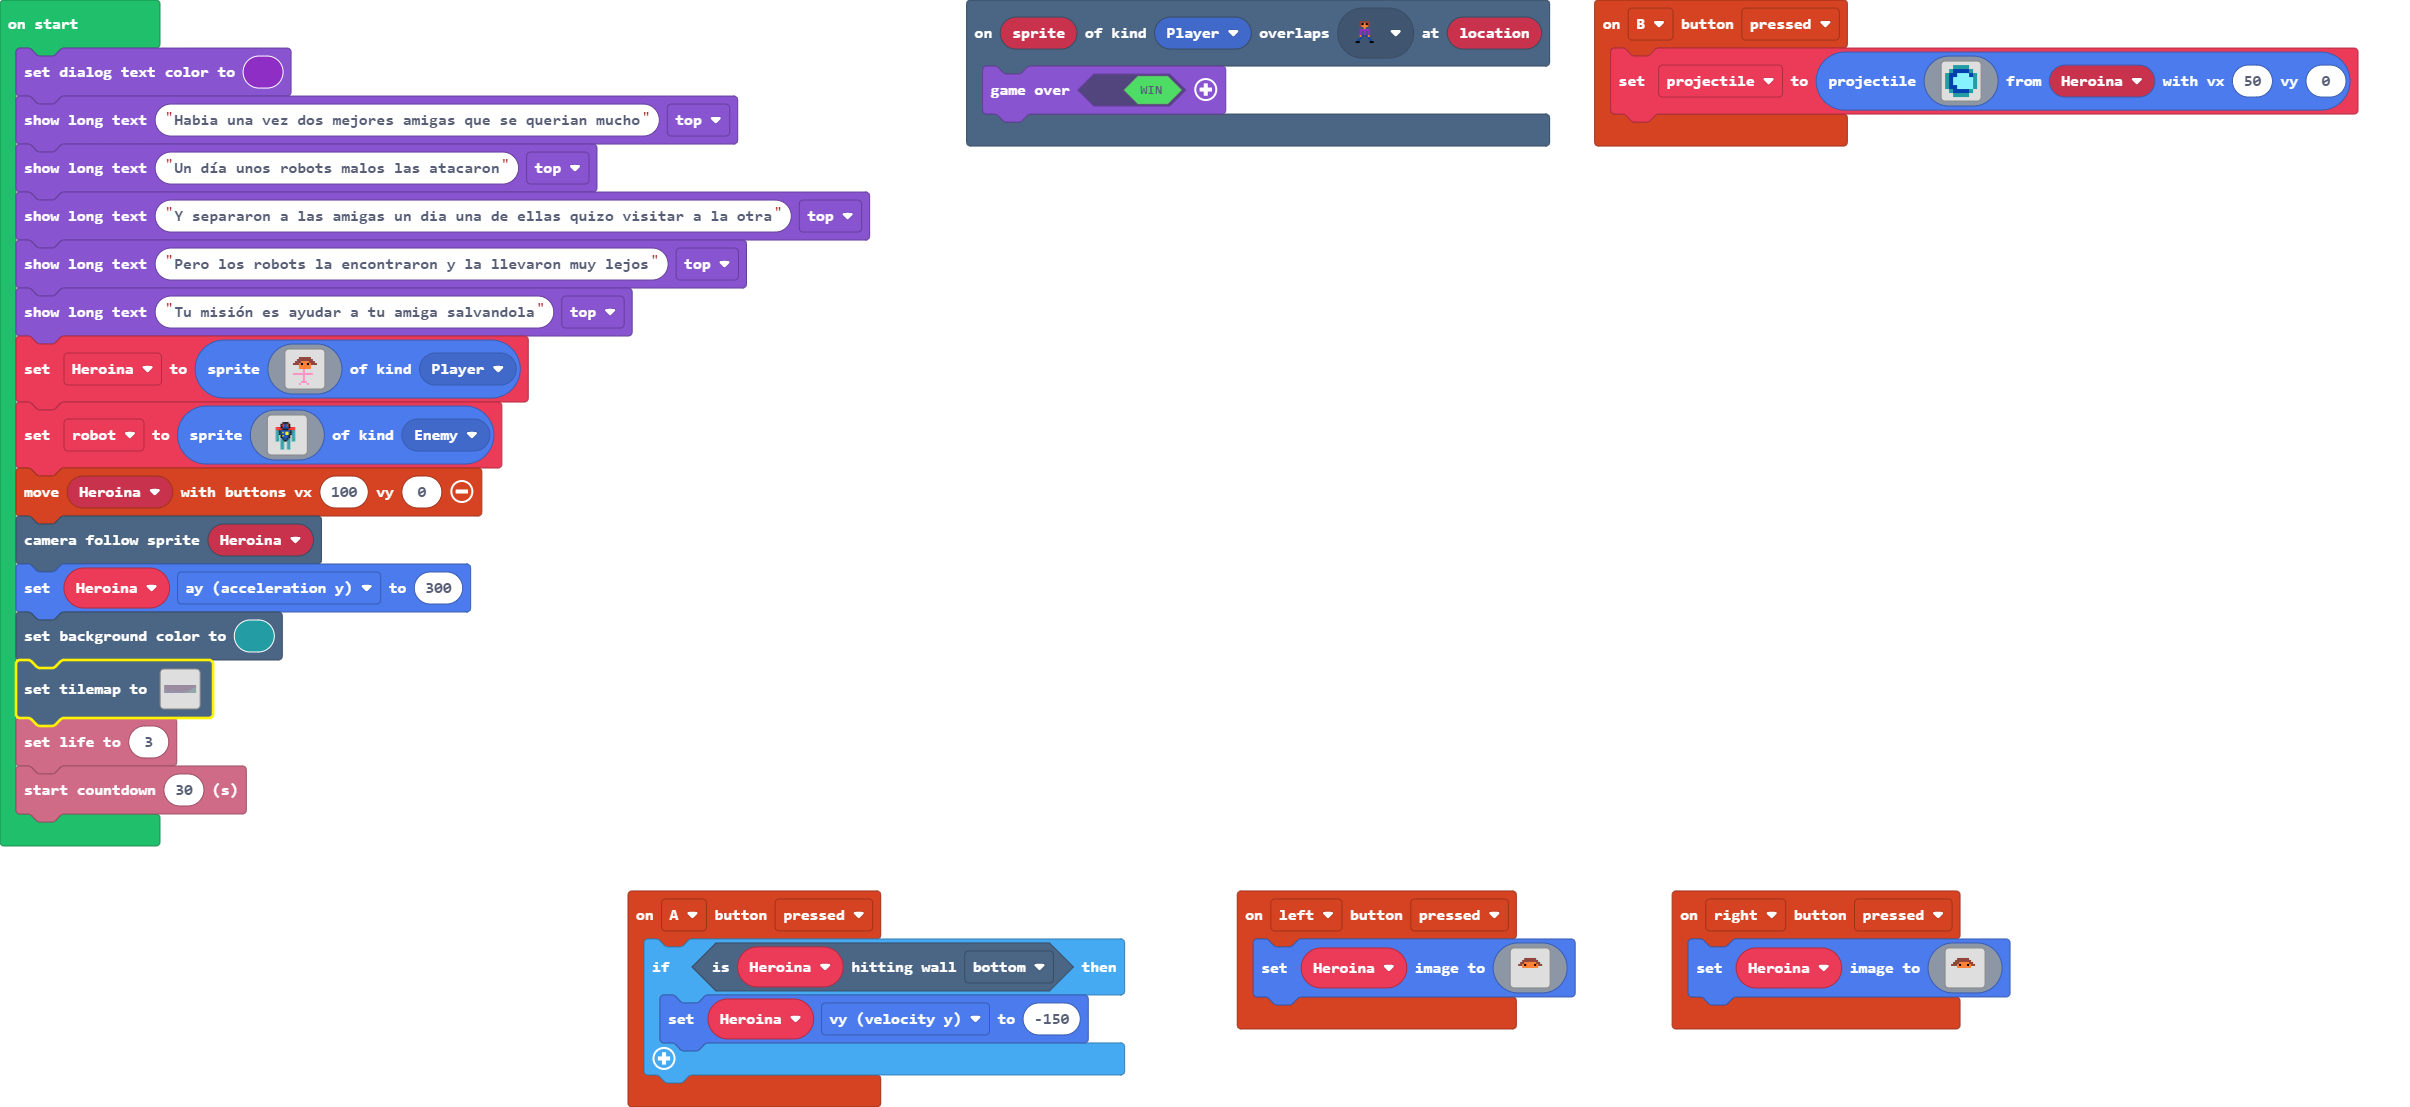
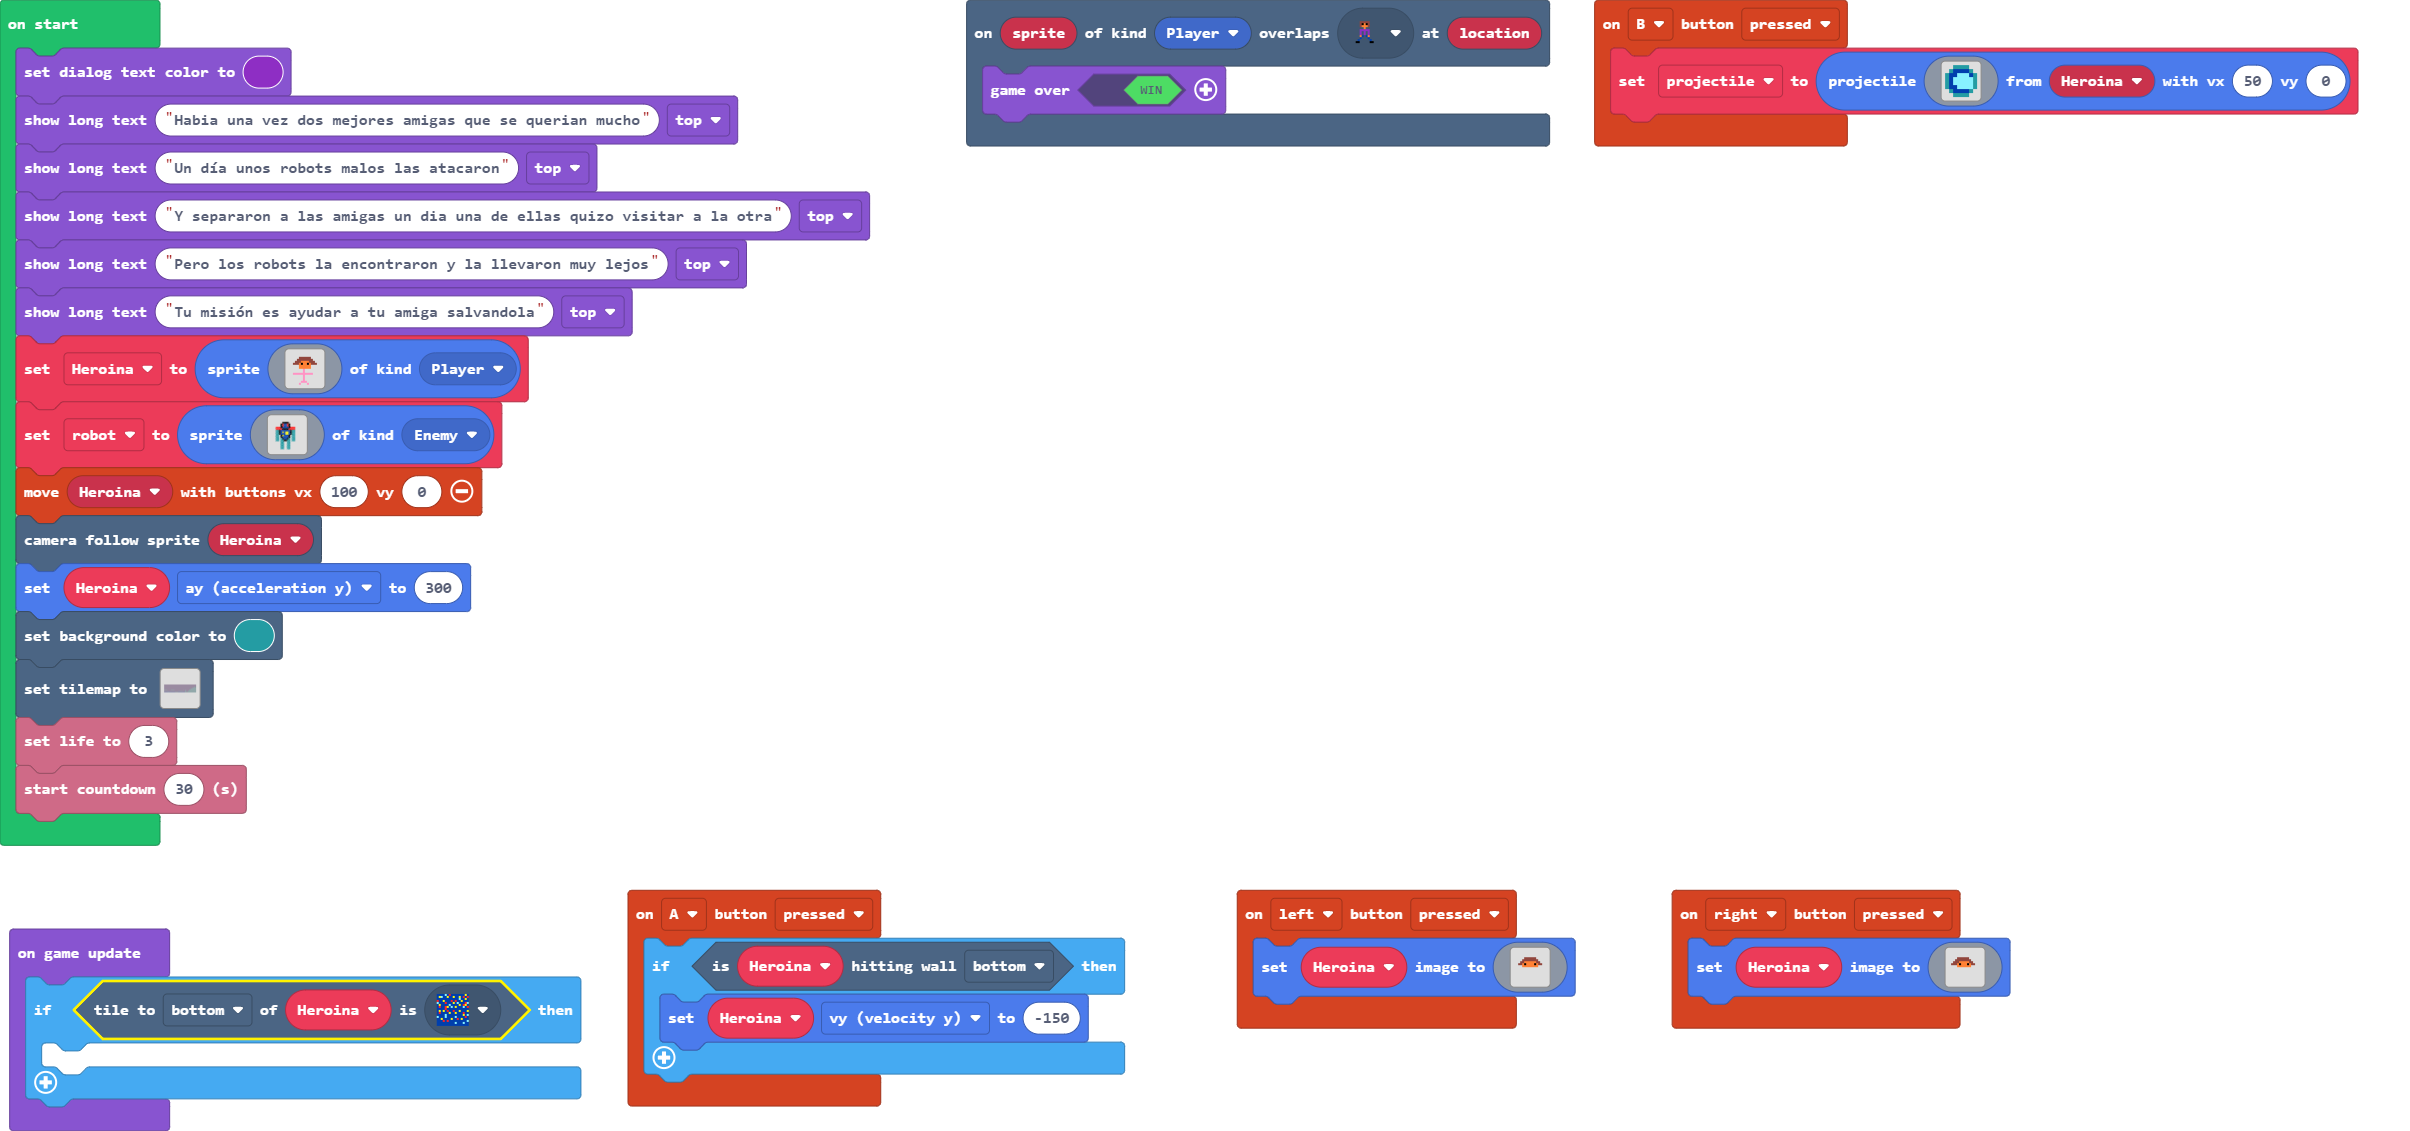
CASI TERMINO LA LAVA

diff --git a/main.ts b/main.ts
@@ -133,3 +133,8 @@ tiles.setTilemap(tiles.createTilemap(hex`400010000404040404040404040404040404040
     `, [myTiles.transparency16,sprites.dungeon.greenOuterNorth0,myTiles.tile3,myTiles.tile4,myTiles.tile5], TileScale.Sixteen))
 info.setLife(3)
 info.startCountdown(30)
+game.onUpdate(function () {
+    if (Heroina.tileKindAt(TileDirection.Bottom, myTiles.tile4)) {
+    	
+    }
+})
